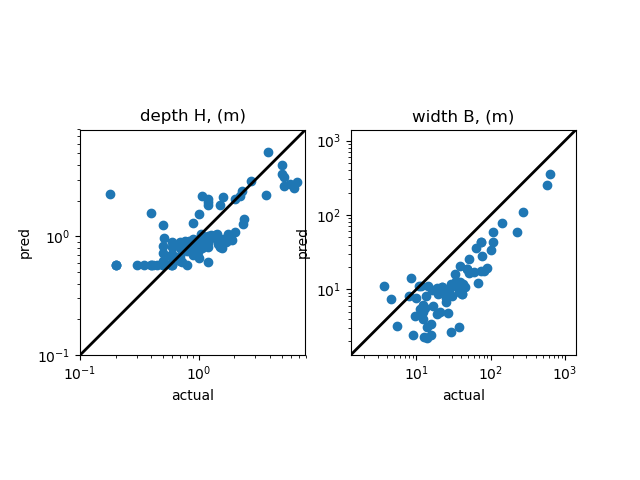
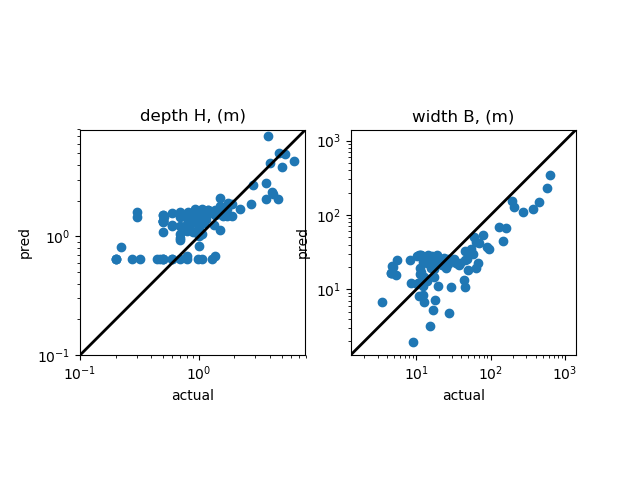
GD optimization

Changed region(s): [[0.5938, 0.3438, 0.875, 0.7188], [0.1562, 0.2812, 0.4688, 0.5625], [0.1562, 0.375, 0.1875, 0.4375]]

diff --git a/channel_geom_nn.py b/channel_geom_nn.py
@@ -71,7 +71,7 @@ def neural_net_model(X_data, input_dim):
     W_O = tf.Variable(tf.random_uniform([n_nodes, 2])) # 2 because there are two outputs
     b_O = tf.Variable(tf.zeros([2]))
     output = tf.add(tf.matmul(layer_1, W_O), b_O)
-    # output = tf.exp(tf.matmul(layer_1, W_O), b_O)
+    # output = tf.pow(tf.matmul(layer_1, W_O), b_O)
 
     return output, W_O
 
@@ -88,8 +88,8 @@ loss = tf.reduce_mean(tf.square(output - ys))
 
 # Gradinent Descent optimiztion just discussed above for updating weights and biases
 learning_rate = 0.001
-# train = tf.train.GradientDescentOptimizer(learning_rate).minimize(loss)
-train = tf.train.AdamOptimizer(learning_rate).minimize(loss)
+train = tf.train.GradientDescentOptimizer(learning_rate).minimize(loss)
+# train = tf.train.AdamOptimizer(learning_rate).minimize(loss)
 
 # some other initializations
 correct_pred = tf.argmax(output, 1)
@@ -107,7 +107,7 @@ with tf.Session() as sess:
     saver = tf.train.Saver()
     #saver.restore(sess,'channel_geom_nn.ckpt')
     
-    for i in range(500):
+    for i in range(1000):
         for j in range(X_train.shape[0]):
             # Run loss and train with each sample
             sess.run([loss, train], feed_dict = {xs:X_train[j,:].reshape(1, X_train.shape[1]), 
